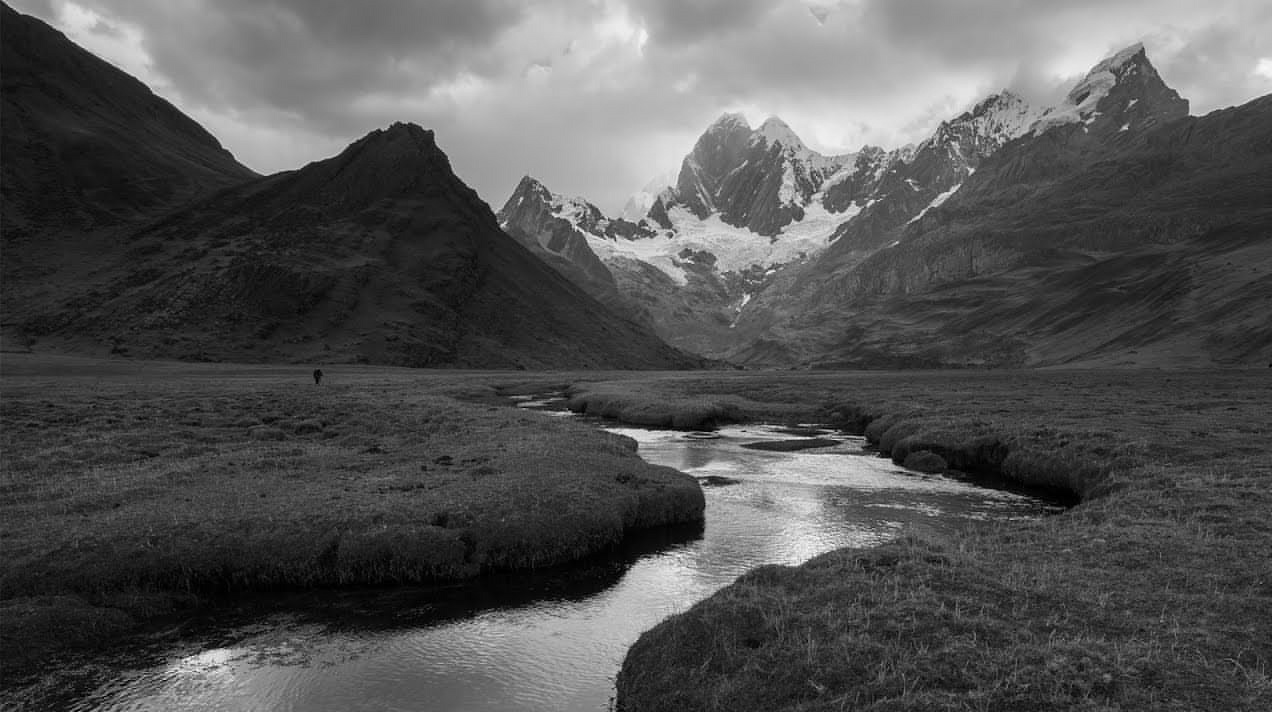
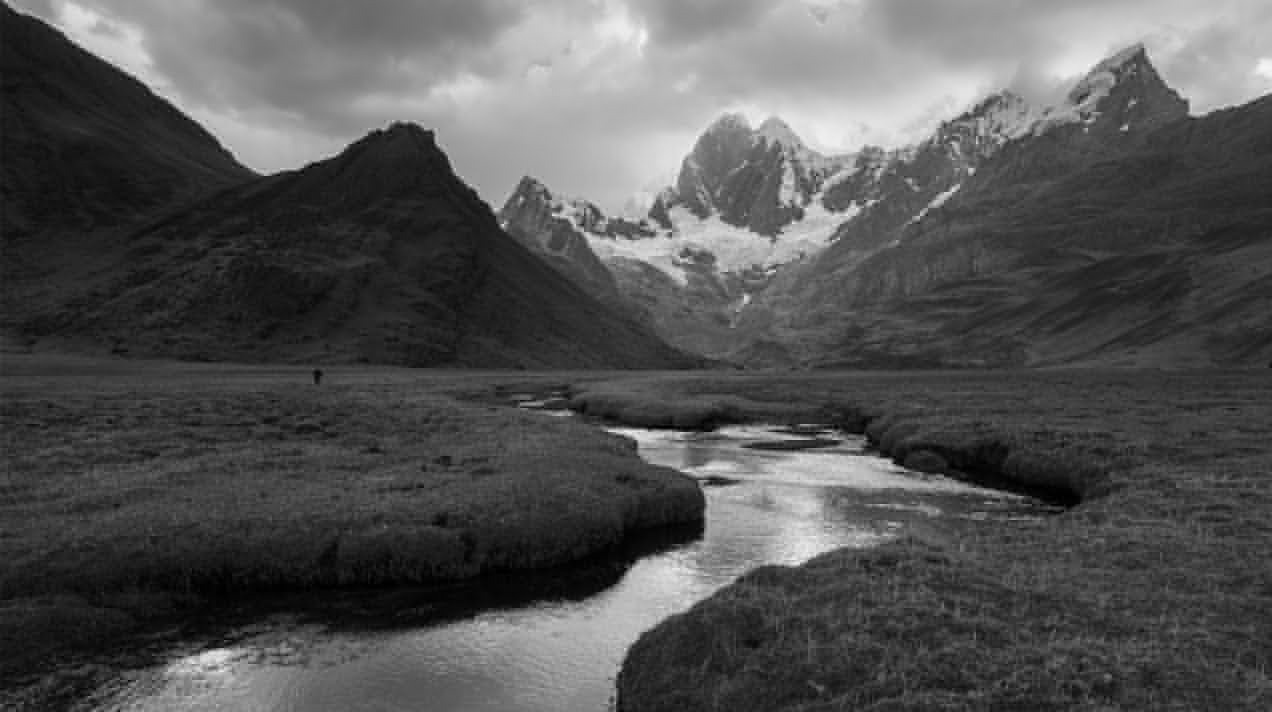
ciao

diff --git a/Progetto 2/script.py b/Progetto 2/script.py
@@ -8,7 +8,14 @@ import numpy as np
 import os
 import cv2
 from scipy.fftpack import dct, idct
+
 import matplotlib.pylab as plt
+from matplotlib.backends.backend_tkagg import (
+    FigureCanvasTkAgg, NavigationToolbar2Tk)
+# Implement the default Matplotlib key bindings.
+from matplotlib.backend_bases import key_press_handler
+from matplotlib.figure import Figure
+
 
 file_path = ""
 img = []
@@ -94,11 +101,40 @@ def applica_dct(img, d, f_dim):
     cv2.imwrite('montagna_gay.jpg', img_compressa)
     
     
-    plt.gray()
-    plt.subplot(121), plt.imshow(img), plt.axis('off'), plt.title('original image', size=20)
-    plt.subplot(122), plt.imshow(img_compressa), plt.axis('off'), plt.title('reconstructed image (DCT+IDCT)', size=20)
+    #f.savefig("bmp_vs_jpg.pdf", bbox_inches='tight')
     
-    f.savefig("bmp_vs_jpg.pdf", bbox_inches='tight')
+    root = Tk()
+    root.wm_title("Embedding in Tk")
+    
+    fig = Figure(figsize=(5, 4), dpi=100)
+    t = np.arange(0, 3, .01)
+    fig.add_subplot(121).imshow(img)
+    fig.add_subplot(122).imshow(img_compressa)
+    
+    canvas = FigureCanvasTkAgg(fig, master=root)  # A tk.DrawingArea.
+    canvas.draw()
+    
+    toolbar = NavigationToolbar2Tk(canvas, root)
+    toolbar.update()
+    
+    
+    def on_key_press(event):
+        print("you pressed {}".format(event.key))
+        key_press_handler(event, canvas, toolbar)
+    
+    
+    canvas.mpl_connect("key_press_event", on_key_press)
+    
+    button = Button(master=root, text="Quit", command=root.quit)
+    
+    # Packing order is important. Widgets are processed sequentially and if there
+    # is no space left, because the window is too small, they are not displayed.
+    # The canvas is rather flexible in its size, so we pack it last which makes
+    # sure the UI controls are displayed as long as possible.
+    button.pack(side=BOTTOM)
+    canvas.get_tk_widget().pack(side=TOP, fill=BOTH, expand=1)
+    
+    mainloop()
     
     
 def main_function(f, d) :
